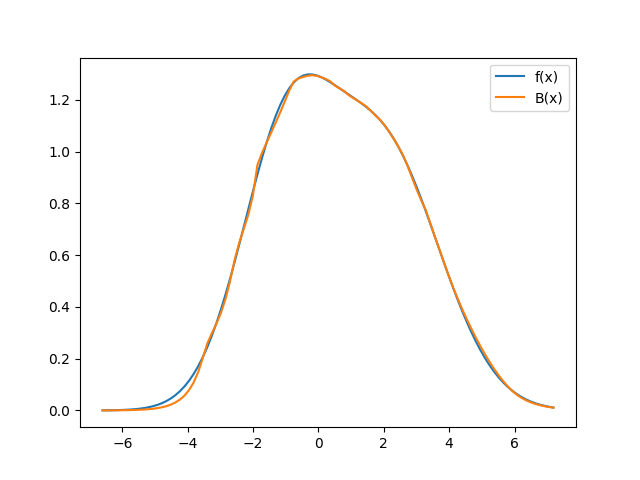
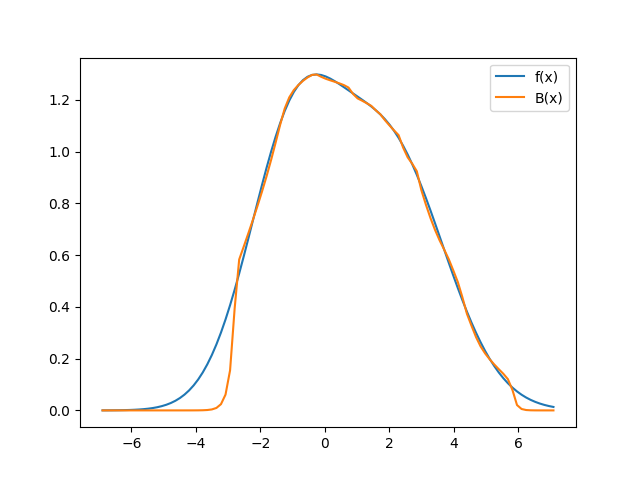
Strange Magic

diff --git a/variational/spline_estimation.py b/variational/spline_estimation.py
@@ -12,38 +12,42 @@ def aux_concavity_matrix(i,j):
     if j>=3 and i>=j:
         return j-i-1
 
-def get_BSpline_decomposition(f, X, order=4, Constraint="Concavity", a=None, b=None, lam = 1e-2):
+def get_BSpline_decomposition(f, X, order=4, Constraint="Concavity", knots=None, a=None, b=None, lam = 1e-2):
 
-    N = len(X)
-    M = order
     sorted_X = np.sort(X)
 
     if a is None or b is None:
         a = sorted_X[0]
         b = sorted_X[-1]
 
-    knots = np.concatenate([[a for i in range(order)], sorted_X, [b for i in range(order)]])
+    if knots is None:
 
+        knots = np.concatenate([[a for i in range(order)], sorted_X, [b for i in range(order)]])
 
-    f_X = f(knots)
+    K = len(knots) - order
+
     BSpline_Basis = splipy.BSplineBasis(order=order, knots=knots)
-    BSpline_Basis_lower = splipy.BSplineBasis(order=order-1, knots=knots)
 
-    X_Tilde = np.array([BSpline_Basis.evaluate(x)[0] for x in knots])
+    f_X = f(X)
+    X_Tilde = BSpline_Basis.evaluate(X)
+
+    D = np.eye(K, k=1) - np.eye(K)
+    D = D[:-1]
+    y_aug = np.concatenate([
+        f_X,
+        np.zeros(D.shape[0])
+    ])
 
 
     if Constraint == "Concavity":
 
         Sigma = np.fromfunction(
             np.vectorize(lambda i, j: aux_concavity_matrix(i+1, j+1)),
-            (N+M, N+M),
+            (K, K),
             dtype=int
         )
 
         A = X_Tilde @ Sigma
-
-        D = np.eye(N+M, k=1) - np.eye(N+M)
-        D = D[:-1]
 
 
         A_aug = np.vstack([
@@ -51,10 +55,6 @@ def get_BSpline_decomposition(f, X, order=4, Constraint="Concavity", a=None, b=N
             np.sqrt(lam) * (D @ Sigma)
         ])
 
-        y_aug = np.concatenate([
-            f_X,
-            np.zeros(D.shape[0])
-        ])
 
         lower_bounds = np.concatenate(([-np.inf], np.zeros(A.shape[1] - 1)))
         upper_bounds = np.full(A.shape[1], np.inf)
@@ -65,7 +65,13 @@ def get_BSpline_decomposition(f, X, order=4, Constraint="Concavity", a=None, b=N
 
 
     elif Constraint is None:
-        beta = lsq_linear(X_Tilde, f_X)
+
+        X_Tilde_aug = np.vstack([
+            X_Tilde,
+            np.sqrt(lam) * D 
+            ])
+
+        beta = lsq_linear(X_Tilde_aug, y_aug).x
 
     else:
         raise ValueError("Constraint not recognized")

diff --git a/experiments/smoothing_influence_test.py b/experiments/smoothing_influence_test.py
@@ -3,33 +3,33 @@ import matplotlib.pyplot as plt
 from splipy import Curve
 
 from variational.spline_estimation import get_BSpline_decomposition
-from experiments.problems import log_gaussian, log_shifted_gaussian, log_shifted_scaled_gaussian, log_mixture_of_gaussian, sin_sum
+from experiments.problems import log_gaussian, log_shifted_gaussian, log_shifted_scaled_gaussian, log_mixture_of_gaussian, piecewise_wavy, sin_sum
 
-X = np.linspace(-5, 5, 500)
-a = X[0]
-b = X[-1]
-order = 4
+X = np.linspace(-5, 5, 150)
+f = piecewise_wavy
+knots = np.concatenate(([-5 for _ in range(4)], np.linspace(-5, 5, 50), [5 for _ in range(4)]))
 
-f = sin_sum
-
-lambdas = np.logspace(-5, -2, 5, base=10)
+lambdas = np.logspace(-1, 2, 4, base=10)
 
 for lam in lambdas:
 
     Beta, BSpline_Basis = get_BSpline_decomposition(
         f=lambda x: f(x),
         X=X,
-        order=order,
+        order=4,
         Constraint="Concavity",
         lam=lam,
-        a=a,
-        b=b
+        knots=knots
         )
 
     approx_curve = Curve(BSpline_Basis, Beta)
 
     Y = np.array([approx_curve.evaluate(x)[0] for x in X])
-    f_axis = f(X)
-    plt.plot(X, f_axis, label="f(x)")
-    plt.plot(X, Y, label="Splines, λ="+str(lam), linestyle='--')
-    plt.show()
+
+    exp = int(np.log10(lam))
+    plt.plot(X, Y, linestyle='--', label=r"$\lambda$"+rf"=$10^{{{exp}}}$")
+
+f_axis = f(X)
+plt.plot(X, f_axis, color='black', label='True function')
+plt.legend()
+plt.savefig(f'experiments/graphs/regularization_influence.png')

diff --git a/experiments/cv_regularizarion_test.py b/experiments/cv_regularizarion_test.py
@@ -2,12 +2,13 @@ import numpy as np
 import matplotlib.pyplot as plt
 
 from variational.cv_regularization import regularization_cst_cv
-from experiments.problems import log_gaussian, log_shifted_gaussian, log_shifted_scaled_gaussian, log_mixture_of_gaussian
+from experiments.problems import log_gaussian, log_shifted_gaussian, log_shifted_scaled_gaussian, log_mixture_of_gaussian, piecewise_wavy, sin_sum
 
-X = np.linspace(-5, 5, 500)
+X = np.linspace(-5, 5, 100)
 f = lambda x: log_shifted_scaled_gaussian(x, mean=1, scale=0.5)
+knots = np.concatenate(([-5 for _ in range(4)], np.linspace(-5, 5, 20), [5 for _ in range(4)]))
 
-lambdas, MSE_list = regularization_cst_cv(f=f, X=X, num=20, log_bounds=(-10,-3), order=4, Constraint="Concavity", a=X[0], b=X[-1])
+lambdas, MSE_list = regularization_cst_cv(f=f, X=X, num=20, log_bounds=(-10,-7), order=4, Constraint=None, knots=knots, a=X[0], b=X[-1])
 
 plt.figure(figsize=(6, 4))
 plt.plot(lambdas, MSE_list, marker='o')
@@ -15,4 +16,5 @@ plt.xscale('log')
 plt.xlabel(r'$\lambda$')
 plt.ylabel(r'$RMSE$')
 plt.grid(True, which="both", ls="--", alpha=0.5)
+plt.savefig(f'experiments/graphs/cv_regularization.png')
 plt.show()

diff --git a/experiments/logdens_lsviapprox.py b/experiments/logdens_lsviapprox.py
@@ -6,7 +6,7 @@ from variational.laplace import laplace_approximation
 N = 50
 order = 4
 rho = 0.5
-eps = 1
+lam = 1e-2
 
 my_log_density = log_mixture_of_gaussian
 _, mode, hess_inv_at_mode = laplace_approximation(log_density=my_log_density, init=0.)
@@ -15,4 +15,4 @@ my_initial_sampler = lambda n: mode + np.linalg.cholesky(hess_inv_at_mode) @ np.
                                                                                                                mode.shape[
                                                                                                                    0]),
                                                                                                            size=n).T
-samples = nonparam_lsvi(my_log_density, mode, my_initial_sampler, order=order, eps=eps, N=N, rho=rho)
+samples = nonparam_lsvi(my_log_density, mode, my_initial_sampler, order=order, N=N, rho=rho, lam=lam)

diff --git a/variational/nonparam_lsvi.py b/variational/nonparam_lsvi.py
@@ -9,7 +9,7 @@ from variational.optimization import find_mode
 epsilon = 0.5
 
 
-def nonparam_lsvi(f, initial_mode, initial_sampler, order=4, N=20, rho=0.5, eps=1e-1, Constraint="Concavity",
+def nonparam_lsvi(f, initial_mode, initial_sampler, order=4, N=20, rho=0.5, lam=1e-2, Constraint="Concavity",
                   max_iter=10):
     samples_across_iteration = np.zeros((N, max_iter))
     my_mode = initial_mode
@@ -21,7 +21,7 @@ def nonparam_lsvi(f, initial_mode, initial_sampler, order=4, N=20, rho=0.5, eps=
     j = 0
 
     while True and j < max_iter:
-        Beta, BSpline_Basis = get_BSpline_decomposition(f=f, X=my_samples, order=order, Constraint=Constraint)
+        Beta, BSpline_Basis = get_BSpline_decomposition(f=f, X=my_samples, order=order, Constraint=Constraint, lam=lam)
         approx_curve = Curve(BSpline_Basis, Beta)
         knots = BSpline_Basis.knots
 

diff --git a/variational/cv_regularization.py b/variational/cv_regularization.py
@@ -4,7 +4,7 @@ from splipy import Curve
 
 from variational.spline_estimation import get_BSpline_decomposition
 
-def regularization_cst_cv(f, X, num=5, log_bounds=(-3,0), order=4, Constraint="Concavity", a=None, b=None):
+def regularization_cst_cv(f, X, num=5, log_bounds=(-3,0), order=4, Constraint="Concavity", knots=None, a=None, b=None):
 
     lambdas = np.logspace(log_bounds[0], log_bounds[1], num, base=10)
     kf = KFold(n_splits=5, shuffle=True, random_state=42)
@@ -24,6 +24,7 @@ def regularization_cst_cv(f, X, num=5, log_bounds=(-3,0), order=4, Constraint="C
                 order=order,
                 Constraint=Constraint,
                 lam=lam,
+                knots=knots,
                 a=a,
                 b=b
             )

diff --git a/experiments/problems.py b/experiments/problems.py
@@ -23,3 +23,10 @@ def log_mixture_of_gaussian(x, means=np.array([-1, 2]), var=np.array([1, 1.5])):
 def sin_sum(x):
 
     return 0.7*np.sin(2*x) + 0.3*np.sin(7*x)
+
+def piecewise_wavy(x):
+    left = 0.5 * x + 2
+    right = -0.5 * x + 2
+
+    envelope = np.minimum(left, right)
+    return envelope + 0.3 * np.sin(8 * x)
